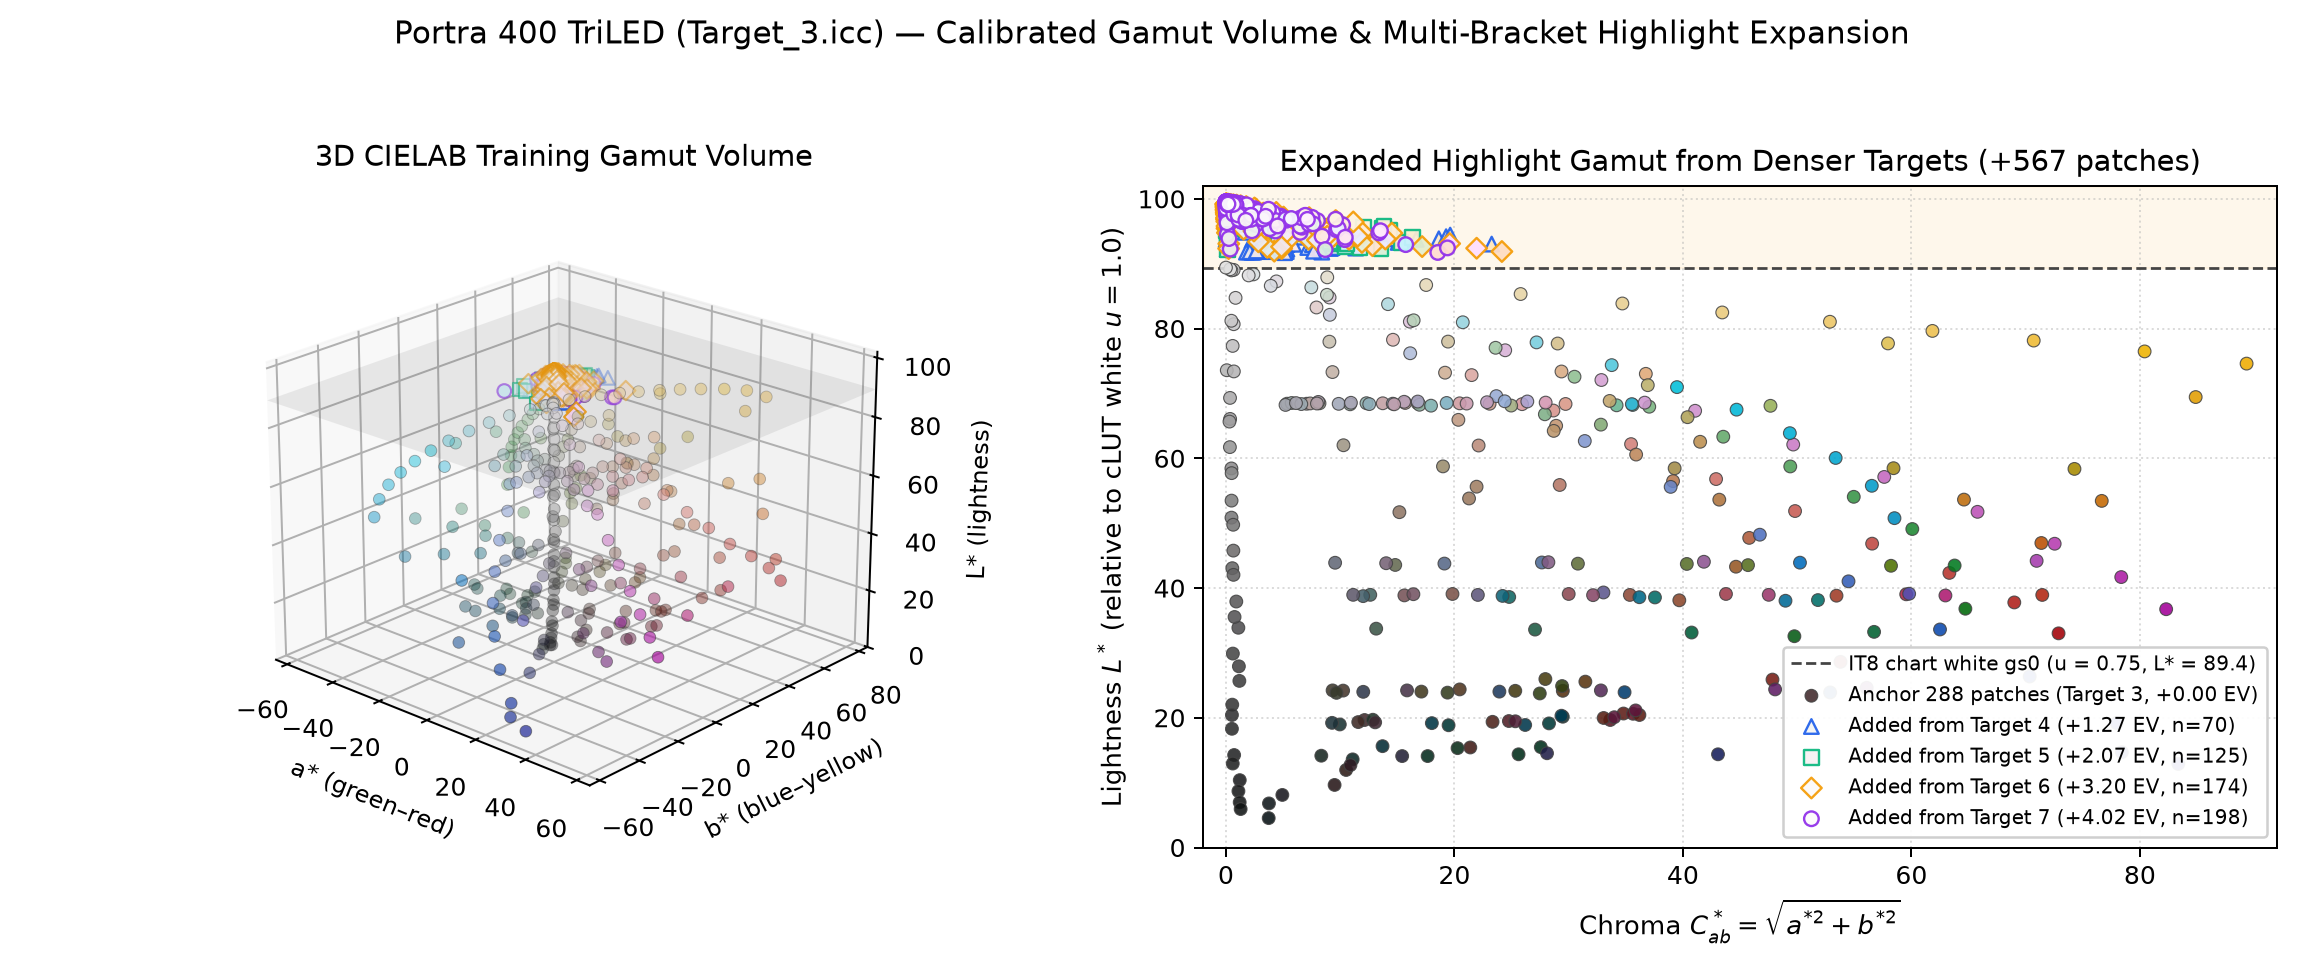
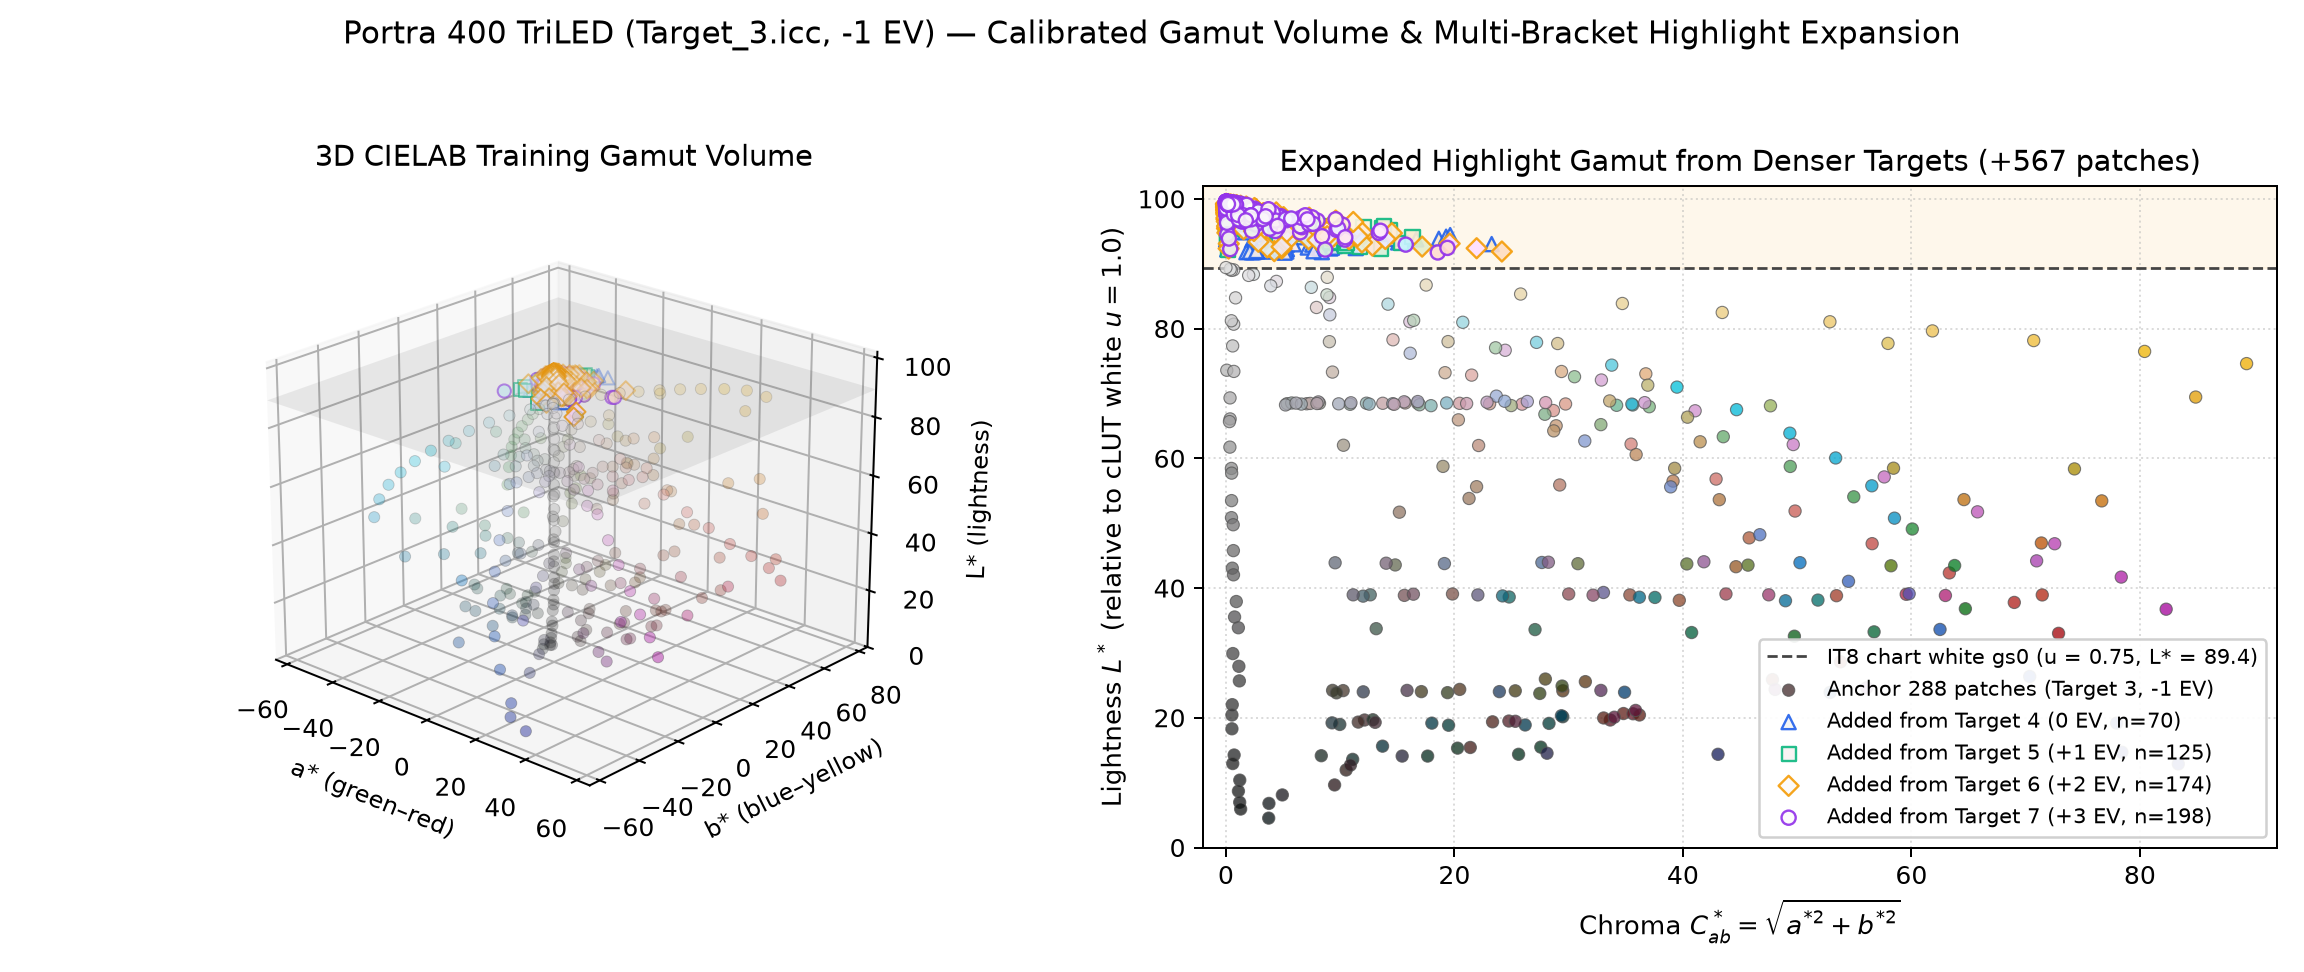
Use -3 EV to +3 EV bracket labels centered on Target 4 across README and diagrams

diff --git a/README.md b/README.md
@@ -33,7 +33,7 @@ Capturing negatives is much simpler now and supports camera RAWs, DNGs, and 16-b
 
 ### 7-Bracket Tone Curves (TRC) & Highlight Roll-Off
 
-A single IT8 target only calibrates tones across its own **7.22-stop** range up to the chart's white patch (`gs0` at 0.75). Fitting all **7 brackets** (`Target_1`..`Target_7`, spanning **4.6 to 5.4 stops** from under- to over-exposed) together measures each bracket's exact exposure offset and traces the film's true highlight shoulder—giving **11.9 to 12.7 stops of total scene dynamic range** and **+2.6 to +4.0 stops of calibrated highlight headroom** above normal white:
+A single IT8 target only calibrates tones across its own **7.22-stop** range up to the chart's white patch (`gs0` at 0.75). Each film stock is photographed across **7 exposure brackets from `-3 EV` to `+3 EV`** in 1-stop steps (`Target_1`..`Target_7`, centered on `Target_4` at `0 EV`, spanning **4.6 to 5.4 stops** of fitted film density across the 7 brackets). Fitting all 7 brackets together measures each bracket's exact exposure offset and traces the film's true highlight shoulder—giving **~12 to 13 stops of total scene dynamic range** and **up to +3 stops of calibrated highlight headroom** above normal white:
 
 ![TRC Curves](samples/trc_curves.png)
 
@@ -43,23 +43,23 @@ The final step converts linearized RGB values into CIE XYZ / $L^*a^*b^*$ using a
 
 # ICC Profile Description & Expanded Highlight Gamut
 
-While early versions generated Curve+Matrix and V4 MPET profiles, the built-in bundles provide **7 brackets of 16-bit Curve + $45^3$ cLUT ICC profiles** (`profiles/<Key>/Target_1.icc`..`Target_7.icc`). Standard single-target cLUT profiles lose saturation or clip in bright highlights because a single chart has no patches above its white patch ($L^* \approx 89.4$). By injecting the brighter patches from the denser, more over-exposed brackets (`Target 4`–`Target 7`, adding +567 highlight color samples on `Target_3.icc`) into the cLUT, the calibrated 3D CIELAB gamut volume and highlight chroma extend smoothly all the way to pure white ($L^* = 100$) without amplifying film grain:
+While early versions generated Curve+Matrix and V4 MPET profiles, the built-in bundles provide **7 brackets of 16-bit Curve + $45^3$ cLUT ICC profiles** (`profiles/<Key>/Target_1.icc`..`Target_7.icc`, covering `-3 EV` to `+3 EV`). Standard single-target cLUT profiles lose saturation or clip in bright highlights because a single chart has no patches above its white patch ($L^* \approx 89.4$). By injecting the brighter patches from the denser, more over-exposed brackets (`Target 4`–`Target 7`, `0 EV` to `+3 EV`, adding +567 highlight color samples on `Target_3.icc`) into the cLUT, the calibrated 3D CIELAB gamut volume and highlight chroma extend smoothly all the way to pure white ($L^* = 100$) without amplifying film grain:
 
 ![Gamut Volume](samples/gamut_volume.png)
 
 ### Why Dedicated Per-Stock Profiles? (Own-Sample vs. Held-Out Color Accuracy)
 
-Generic negative inversion tools apply a single curve or $3\times 3$ matrix to every film stock, which cannot untangle non-linear dye cross-coupling and typically leaves `5–10+ ΔE₀₀` color errors across saturated colors and highlights. By calibrating a dedicated 7-bracket $45^3$ 3D-cLUT per film stock, the profiles achieve **sub-`0.6 ΔE₀₀` mean (`~0.4 ΔE₀₀` median) own-sample accuracy** at nominal exposure and **`1.4–2.3 ΔE₀₀` median error on unseen held-out color patches** (2-fold cross-validation holding out half of the 264 color patches at a time, where `< 2.0 ΔE₀₀` is barely perceptible to the human eye):
+Generic negative inversion tools apply a single curve or $3\times 3$ matrix to every film stock, which cannot untangle non-linear dye cross-coupling and typically leaves `5–10+ ΔE₀₀` color errors across saturated colors and highlights. By calibrating a dedicated 7-bracket $45^3$ 3D-cLUT per film stock, the profiles achieve **sub-`0.6 ΔE₀₀` mean (`~0.4 ΔE₀₀` median) own-sample accuracy** and **`1.4–2.3 ΔE₀₀` median error on unseen held-out color patches** (2-fold cross-validation holding out half of the 264 color patches at a time, where `< 2.0 ΔE₀₀` is barely perceptible to the human eye):
 
-| Bracket Target (Exposure Window) | Portra 400 Own `ΔE₀₀` avg (med) | Portra 400 Held-Out avg (med) | Portra 160 Own `ΔE₀₀` avg (med) | Portra 160 Held-Out avg (med) | Ektar 100 Own `ΔE₀₀` avg (med) | Ektar 100 Held-Out avg (med) |
+| Bracket Target (Exposure) | Portra 400 Own `ΔE₀₀` avg (med) | Portra 400 Held-Out avg (med) | Portra 160 Own `ΔE₀₀` avg (med) | Portra 160 Held-Out avg (med) | Ektar 100 Own `ΔE₀₀` avg (med) | Ektar 100 Held-Out avg (med) |
 | :--- | :---: | :---: | :---: | :---: | :---: | :---: |
-| **`Target 1`** (`-1.4` to `-1.6 EV`) | `0.79` (`0.50`) | `2.70` (`1.91`) | `1.09` (`0.47`) | `2.35` (`1.61`) | `1.11` (`0.49`) | `3.05` (`1.87`) |
-| **`Target 2`** (`-0.6` to `-0.8 EV`) | `0.56` (`0.41`) | `2.04` (`1.38`) | `0.82` (`0.42`) | `2.09` (`1.55`) | `0.61` (`0.39`) | `2.68` (`1.52`) |
-| **`Target 3`** (`+0.0 EV` nominal) | **`0.53` (`0.40`)** | **`2.38` (`1.40`)** | **`0.59` (`0.39`)** | **`1.96` (`1.40`)** | **`0.51` (`0.36`)** | **`2.79` (`1.55`)** |
-| **`Target 4`** (`+1.0` to `+1.3 EV`) | `0.55` (`0.42`) | `2.62` (`1.48`) | `0.56` (`0.44`) | `2.30` (`1.37`) | `0.62` (`0.49`) | `3.25` (`1.84`) |
-| **`Target 5`** (`+1.7` to `+2.1 EV`) | `0.54` (`0.40`) | `2.75` (`1.46`) | `0.62` (`0.43`) | `2.65` (`1.58`) | `0.63` (`0.49`) | `3.52` (`1.75`) |
-| **`Target 6`** (`+2.5` to `+3.2 EV`) | `0.59` (`0.43`) | `2.92` (`1.58`) | `0.67` (`0.49`) | `2.67` (`1.62`) | `0.72` (`0.59`) | `4.01` (`2.15`) |
-| **`Target 7`** (`+3.4` to `+4.0 EV`) | `0.69` (`0.54`) | `3.08` (`1.77`) | `0.70` (`0.53`) | `2.82` (`1.78`) | `0.83` (`0.65`) | `3.72` (`2.26`) |
+| **`Target 1`** (`-3 EV`) | `0.79` (`0.50`) | `2.70` (`1.91`) | `1.09` (`0.47`) | `2.35` (`1.61`) | `1.11` (`0.49`) | `3.05` (`1.87`) |
+| **`Target 2`** (`-2 EV`) | `0.56` (`0.41`) | `2.04` (`1.38`) | `0.82` (`0.42`) | `2.09` (`1.55`) | `0.61` (`0.39`) | `2.68` (`1.52`) |
+| **`Target 3`** (`-1 EV`) | `0.53` (`0.40`) | `2.38` (`1.40`) | `0.59` (`0.39`) | `1.96` (`1.40`) | `0.51` (`0.36`) | `2.79` (`1.55`) |
+| **`Target 4`** (`0 EV` center) | **`0.55` (`0.42`)** | **`2.62` (`1.48`)** | **`0.56` (`0.44`)** | **`2.30` (`1.37`)** | **`0.62` (`0.49`)** | **`3.25` (`1.84`)** |
+| **`Target 5`** (`+1 EV`) | `0.54` (`0.40`) | `2.75` (`1.46`) | `0.62` (`0.43`) | `2.65` (`1.58`) | `0.63` (`0.49`) | `3.52` (`1.75`) |
+| **`Target 6`** (`+2 EV`) | `0.59` (`0.43`) | `2.92` (`1.58`) | `0.67` (`0.49`) | `2.67` (`1.62`) | `0.72` (`0.59`) | `4.01` (`2.15`) |
+| **`Target 7`** (`+3 EV`) | `0.69` (`0.54`) | `3.08` (`1.77`) | `0.70` (`0.53`) | `2.82` (`1.78`) | `0.83` (`0.65`) | `3.72` (`2.26`) |
 
 ### DINOv3 Automatic Color Grader & Iterative Convergence
 
